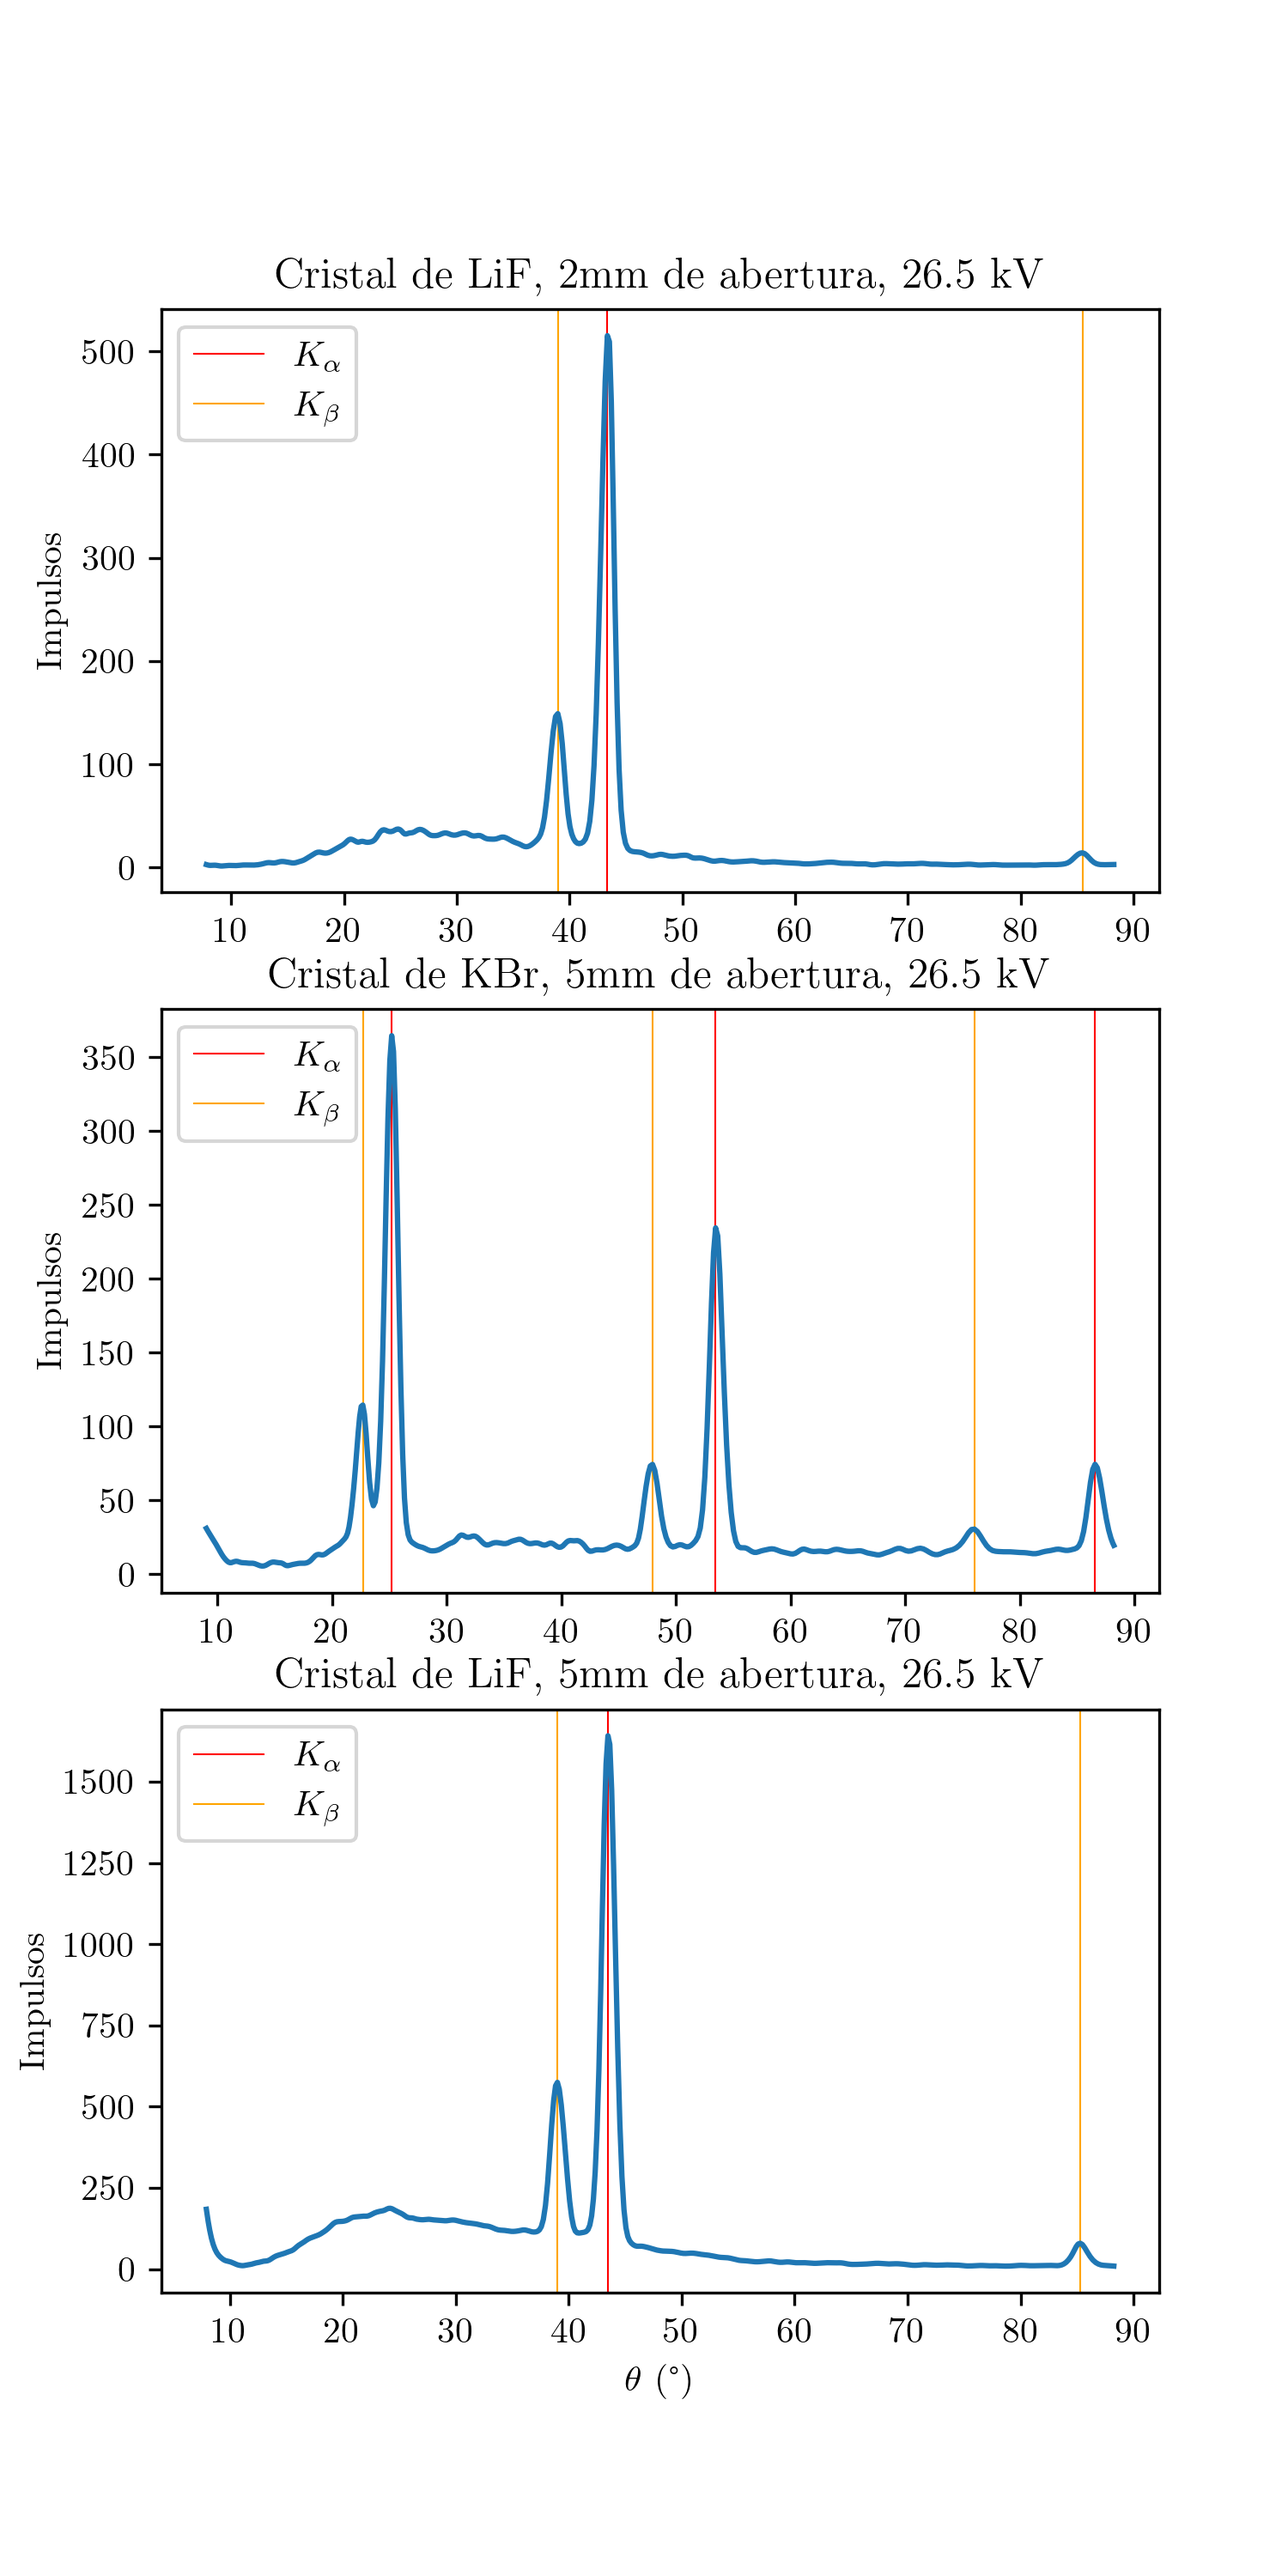
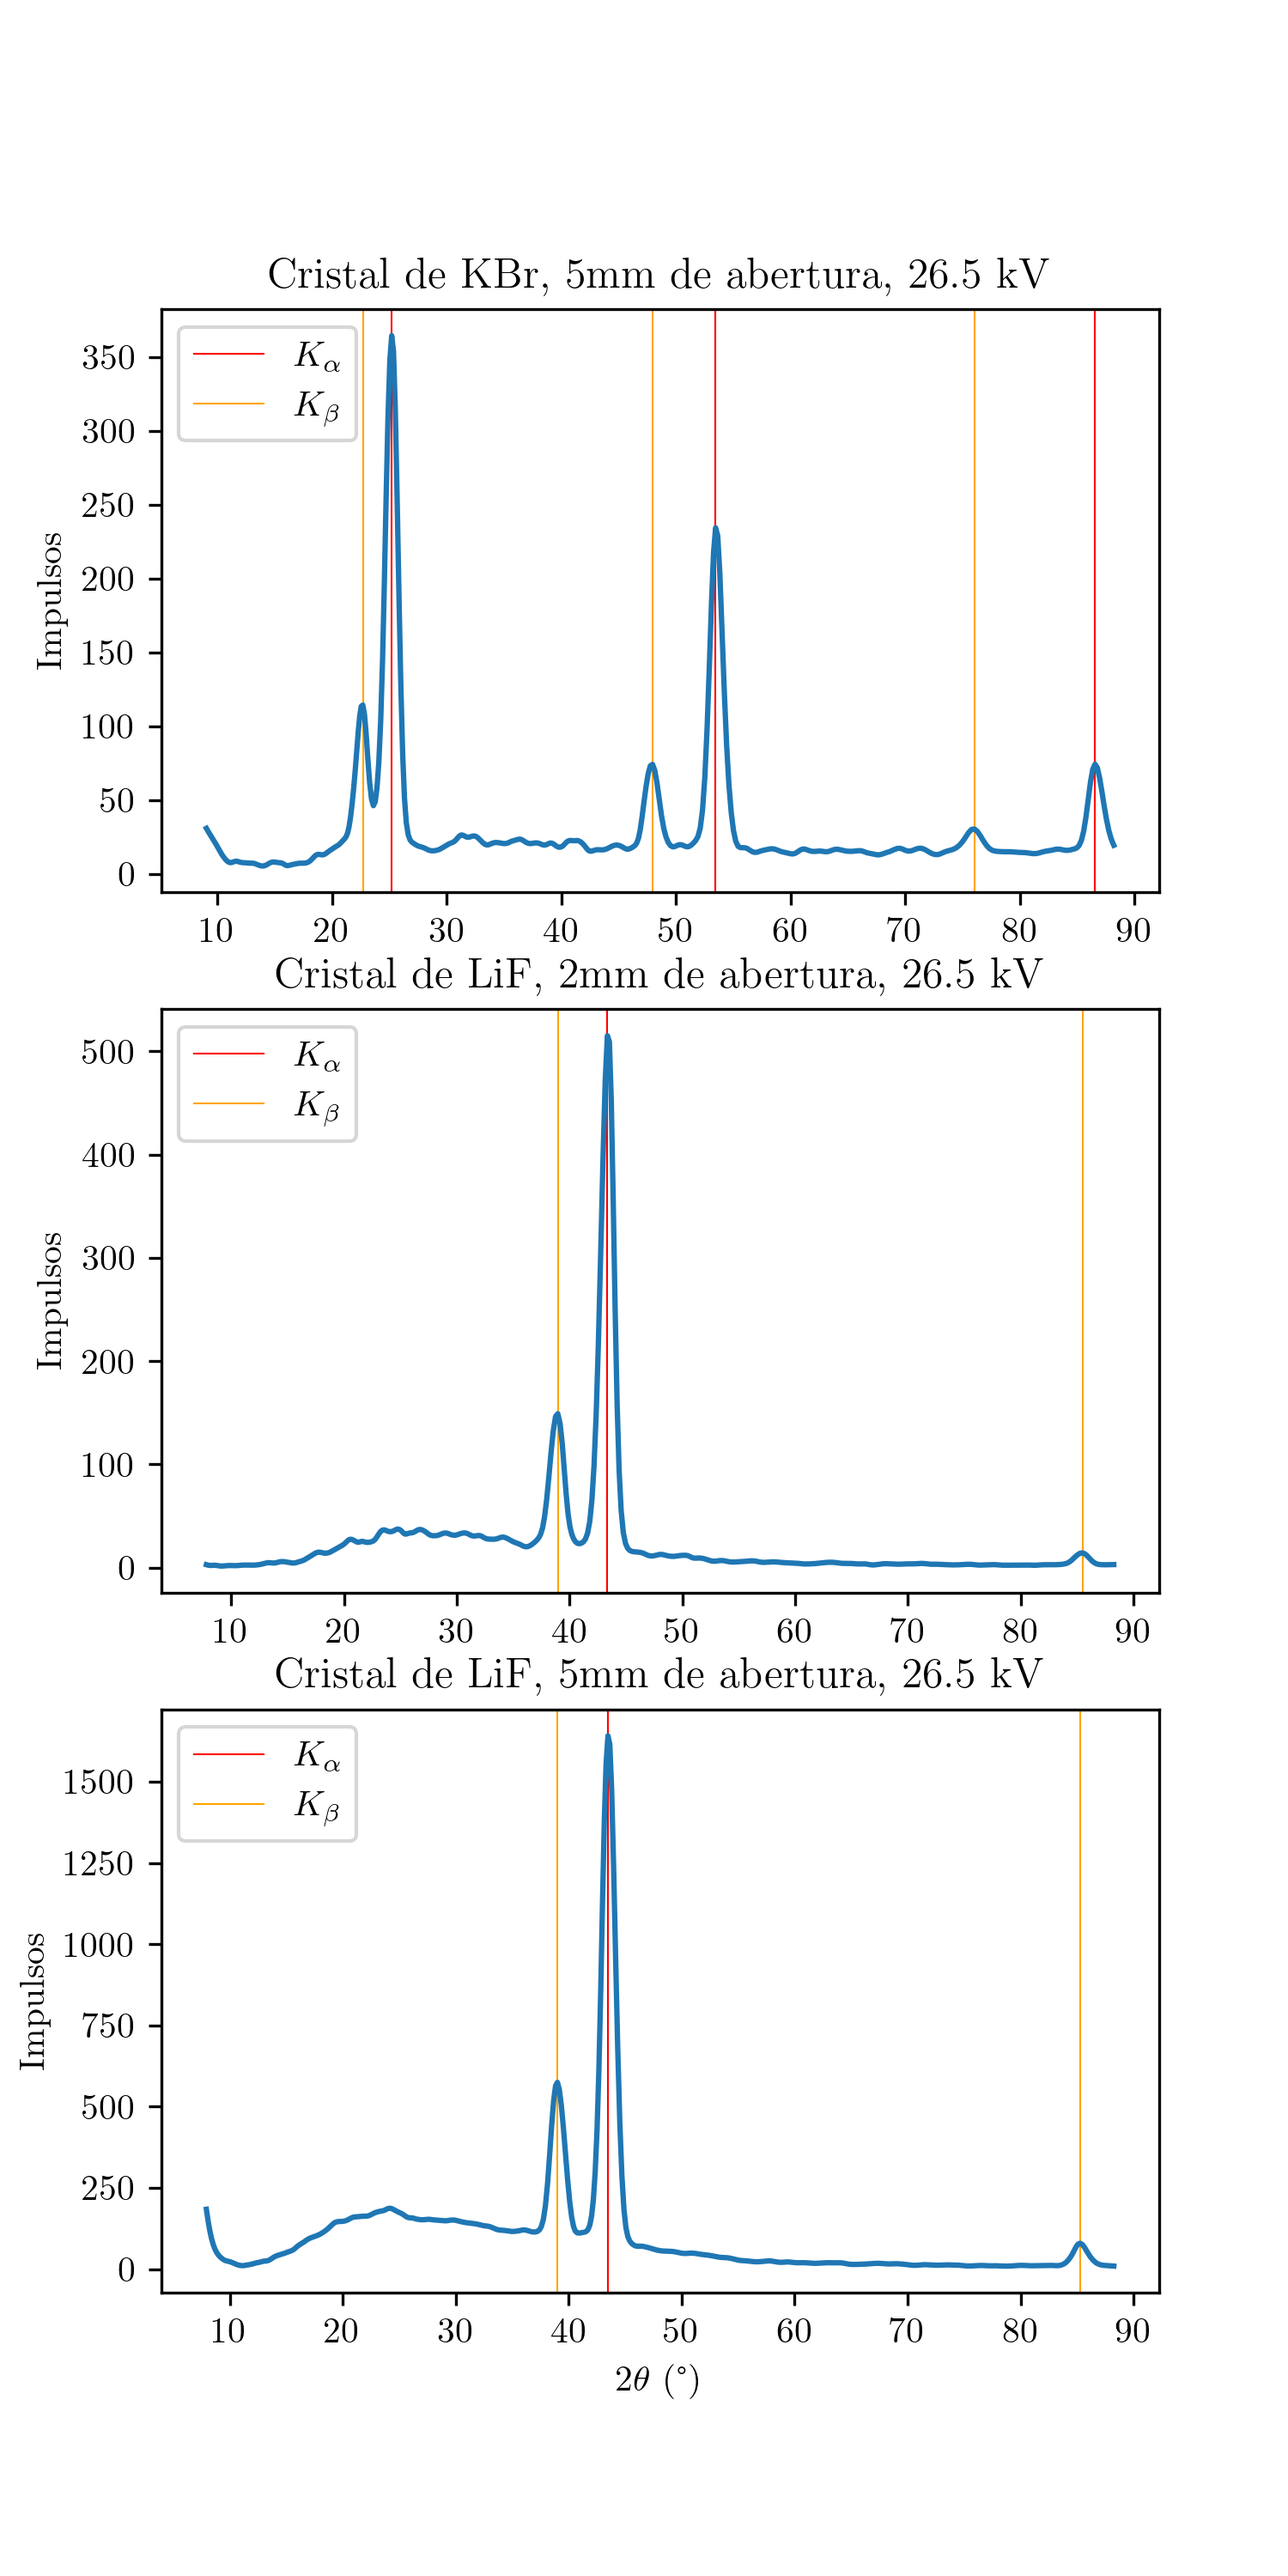
Changing xlabel to 2\theta

diff --git a/spectrum.py b/spectrum.py
@@ -45,12 +45,12 @@ dfs = [
 
 fig, axes = plt.subplots(3, 1)
 
-axes[-1].set(xlabel=r"$\theta$ (\si{\degree})")
+axes[-1].set(xlabel=r"$2\theta$ (\si{\degree})")
 
 # Params to use in find_peaks for each dataset
 fp_params = (
-    {"height": None, "threshold": 0.3, "width": 5},
     {"height": 30.0, "threshold": None, "width": None},
+    {"height": None, "threshold": 0.3, "width": 5},
     {"height": None, "threshold": 2.0, "width": None},
 )
 
